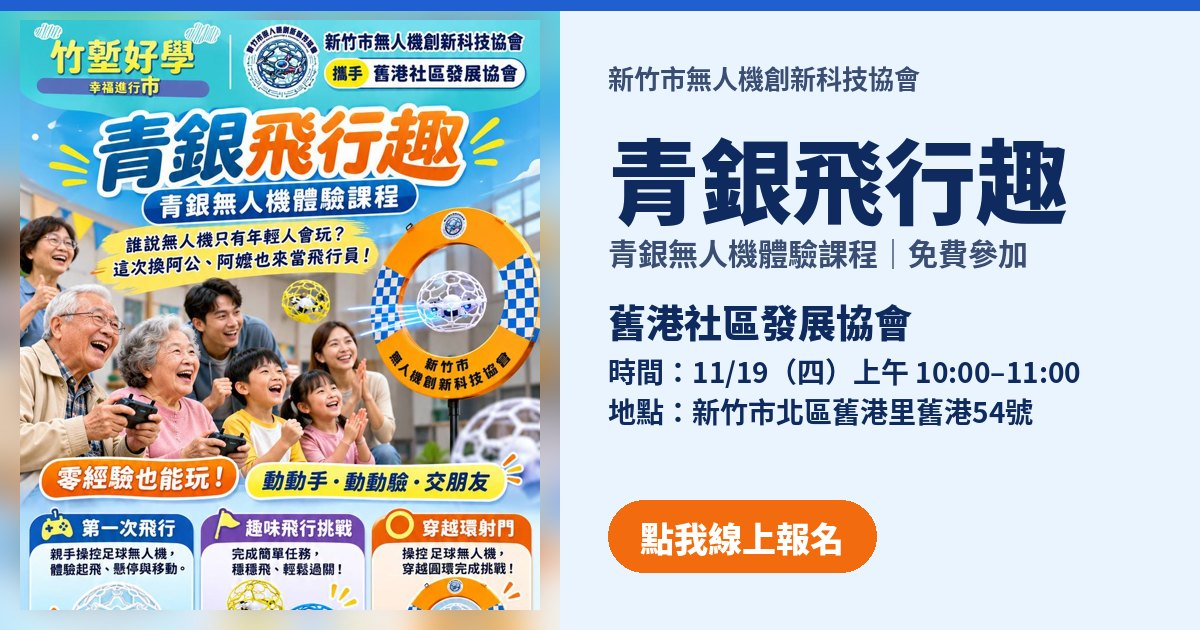
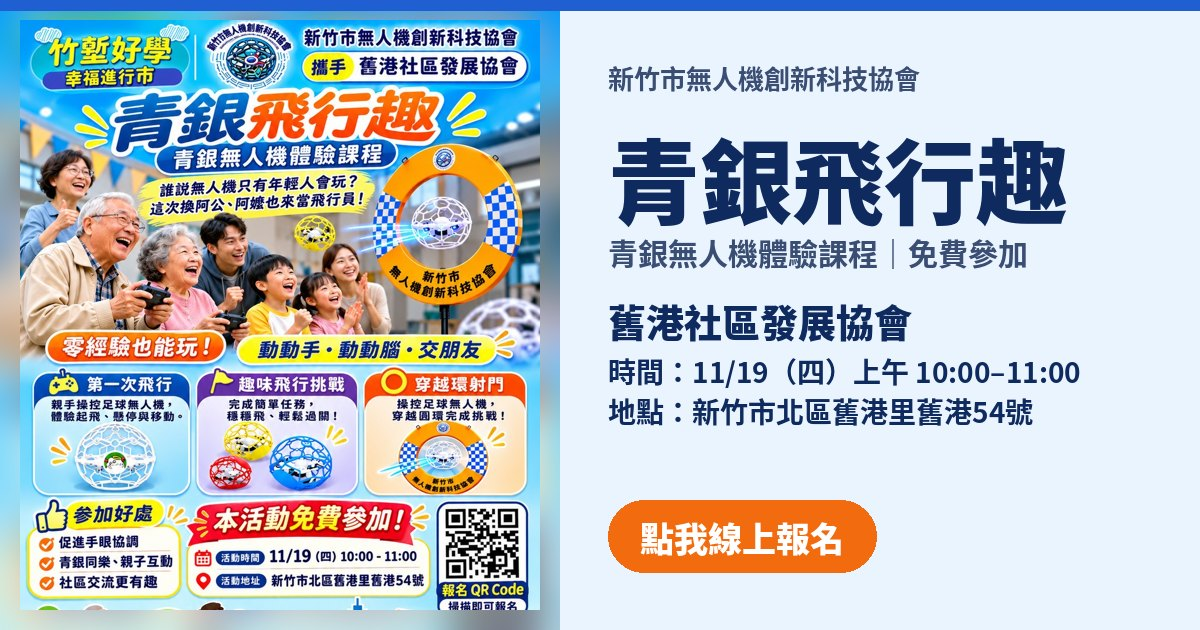
舊港換新海報（含報名 QR），重新產生舊港分享縮圖；海報版本號 v=3
Claude-Session: https://claude.ai/code/session_01Q3ebcVtxuHzfE3YEkG5ikA

diff --git a/index.html b/index.html
@@ -26,7 +26,7 @@
 // 有代碼 → 一打開就先下載海報，不等其他東西
 (function(){try{var c=(new URLSearchParams(location.search).get("c")||"").trim().toLowerCase();
 if(!c){location.replace("admin.html");return;}
-if(c){var l=document.createElement("link");l.rel="preload";l.as="image";l.href="poster-"+encodeURIComponent(c)+".jpg?v=2";document.head.appendChild(l);}}catch(e){}})();
+if(c){var l=document.createElement("link");l.rel="preload";l.as="image";l.href="poster-"+encodeURIComponent(c)+".jpg?v=3";document.head.appendChild(l);}}catch(e){}})();
 </script>
 <style>
 :root{
@@ -297,7 +297,7 @@ footer a{font-family:var(--f-round);font-weight:400;font-size:24px;color:var(--r
     info.hidden = !info.children.length;
     document.title = (CFG.EVENT_TITLE || "活動") + "報名｜" + c.name;
     // 海報：poster-社區代碼.jpg，有就整張顯示在最上面
-    const src = "poster-" + encodeURIComponent(c.code) + ".jpg?v=2"; // 換海報時把 v 加 1（跟上面 preload 一起改）
+    const src = "poster-" + encodeURIComponent(c.code) + ".jpg?v=3"; // 換海報時把 v 加 1（跟上面 preload 一起改）
     const img = $("#poster");
     if (img.dataset.src !== src) {
       img.dataset.src = src;
